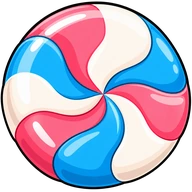
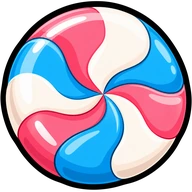
Thicken the candy's outline
The art script can now add black outline around a drawing (art.json in
the food's folder), so a small food keeps a visible edge without
touching the original picture.

Claude-Session: https://claude.ai/code/session_01PmHJoykLAXWcpTPQAaj2UM

diff --git a/shared/foods.js b/shared/foods.js
@@ -22,7 +22,7 @@
   "es": 1.18,
   "ey": 0.07,
   "art": {
-   "half": 14.257,
+   "half": 14.194,
    "faces": [
     0,
     0,

diff --git a/scripts/gen-art.py b/scripts/gen-art.py
@@ -9,6 +9,11 @@ same size and with the food in the same place:
     closed.png  eyes closed           (optional, falls back to open)
     wow.png     surprised face        (optional, falls back to open)
 
+A folder may also hold art.json with settings for that food:
+    {"outline": 22}   thicken the dark outline by this many pixels of the drawing, outwards.
+                      Small foods need it: drawn with the same line as the big ones, theirs
+                      almost vanishes once the food is shrunk to its size in the jar.
+
 and writes:
     web/img/foods/<level>.webp   the different faces side by side, cut square
     scripts/art.json             the outline of each drawing, for gen-foods.js
@@ -65,9 +70,35 @@ def simplify(p, n):
     return np.array(p)
 
 
+def blur(a, sigma):
+    """Gaussian blur of a float array, one axis at a time."""
+    n = int(sigma * 3) + 1
+    k = np.exp(-0.5 * (np.arange(-n, n + 1) / sigma) ** 2); k /= k.sum()
+    a = np.pad(a, n)
+    a = np.array([np.convolve(row, k, 'same') for row in a])
+    a = np.array([np.convolve(col, k, 'same') for col in a.T]).T
+    return a[n:-n, n:-n]
+
+
+def thicken(im, t):
+    """Grows the drawing outwards by t pixels of black, following its shape."""
+    pad = int(t) + 3                                  # room for the new outline if the drawing is near the border
+    im = np.pad(im, ((pad, pad), (pad, pad), (0, 0)))
+    alpha = im[..., 3] / 255.0
+    # Blurring a filled shape with sigma = t leaves about 0.159 exactly t pixels outside its edge.
+    soft = blur((alpha > 0.5).astype(float), t)
+    ring = np.clip((soft - 0.1587) * (t / 0.242) + 0.5, 0, 1)
+    out = im.astype(float)
+    out[..., :3] *= alpha[..., None]                 # the drawing, over black
+    out[..., 3] = np.maximum(alpha, ring) * 255
+    return out.round().astype('uint8')
+
+
 def load(folder):
     """Returns the drawings that exist and, for each of the four faces, which drawing it uses."""
     names, imgs, use = [], [], []
+    cfg_path = os.path.join(folder, 'art.json')
+    cfg = json.load(open(cfg_path)) if os.path.exists(cfg_path) else {}
     for face in FACES:
         for name in [face] + FALLBACK.get(face, []):
             path = os.path.join(folder, name + '.png')
@@ -79,6 +110,7 @@ def load(folder):
                 # solid, plus the few soft pixels that smooth its edge.
                 near = Image.fromarray(((im[..., 3] > 127) * 255).astype('uint8')).filter(ImageFilter.MaxFilter(5))
                 im[..., 3][np.array(near) == 0] = 0
+                if cfg.get('outline'): im = thicken(im, float(cfg['outline']))
                 names.append(name); imgs.append(Image.fromarray(im, 'RGBA'))
             use.append(names.index(name))
             break

diff --git a/README.md b/README.md
@@ -92,6 +92,8 @@ Cómo tienen que ser los dibujos:
 - Las comidas alargadas, acostadas: el dibujo se guarda como va a caer en el frasco (la lata está guardada de costado).
 - Las plantillas de `docs/plantillas/` sirven de guía para la forma general (redonda, triángulo, óvalo o cuadrada).
 
+Si el contorno de un dibujo queda muy fino al achicarlo (pasa con las comidas más chicas), se puede engrosar sin tocar el dibujo: un archivo `art.json` en la carpeta de esa comida con `{"outline": 22}` le suma esa cantidad de píxeles de borde negro. Hoy lo usa el caramelo.
+
 Para poner o cambiar un dibujo:
 
 1. Guardar las caras en `art/foods/<nivel>/` (`0` es la comida más chica y `10` la más grande).
